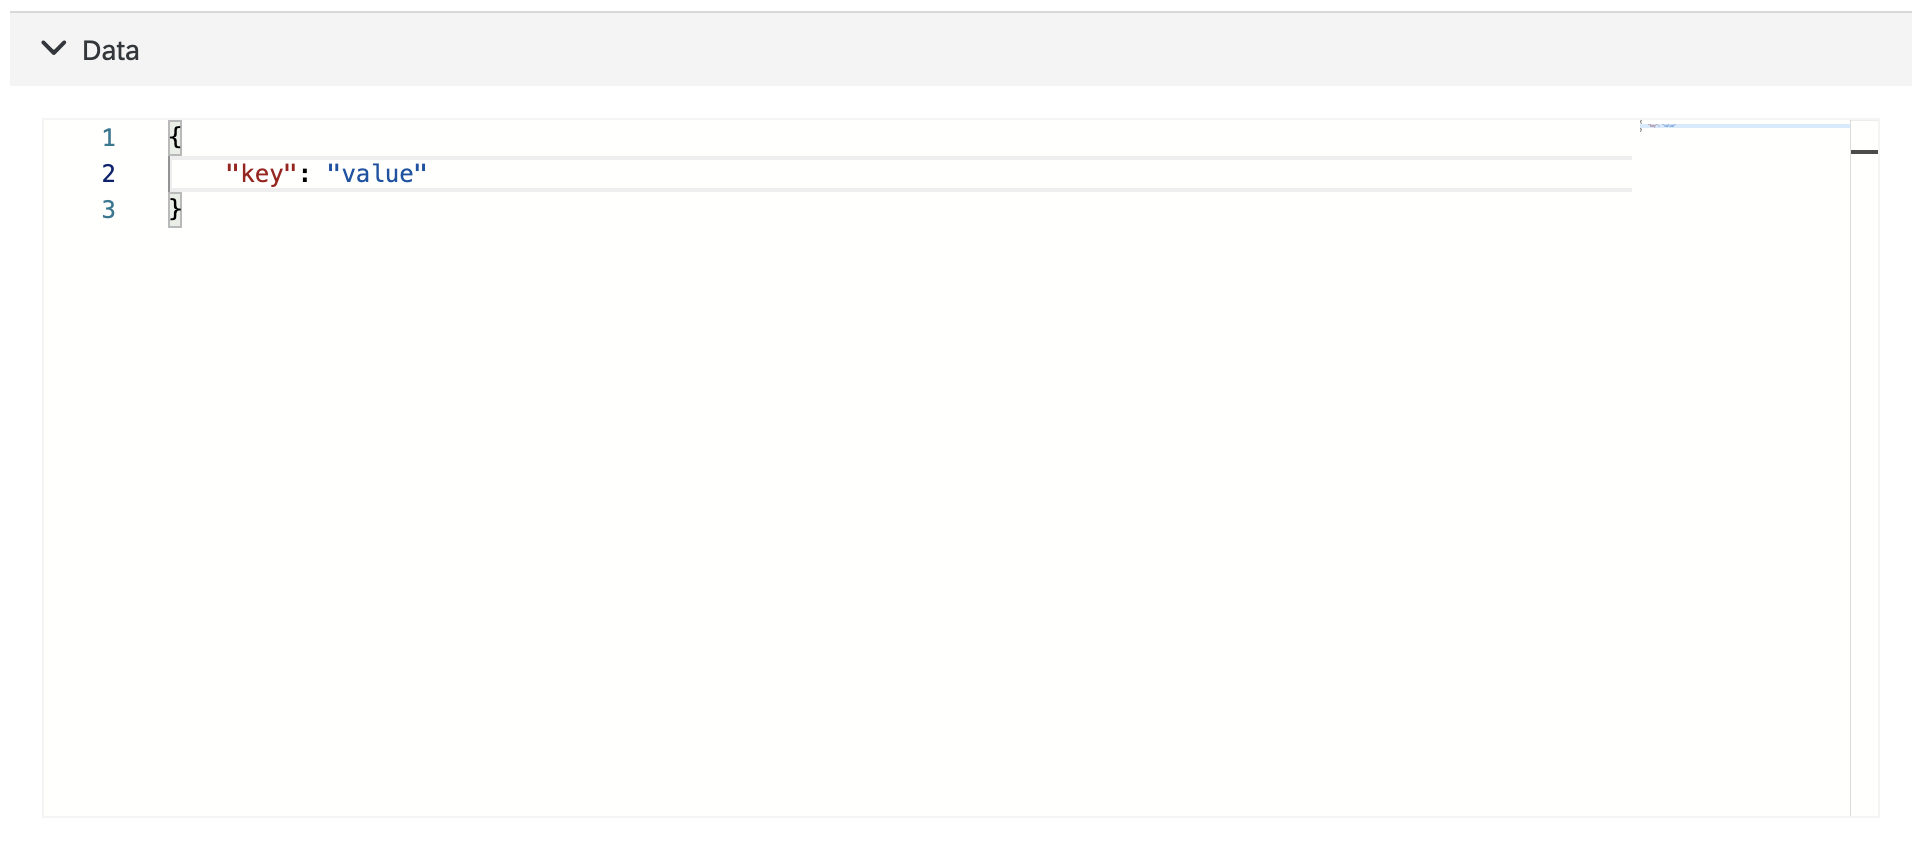
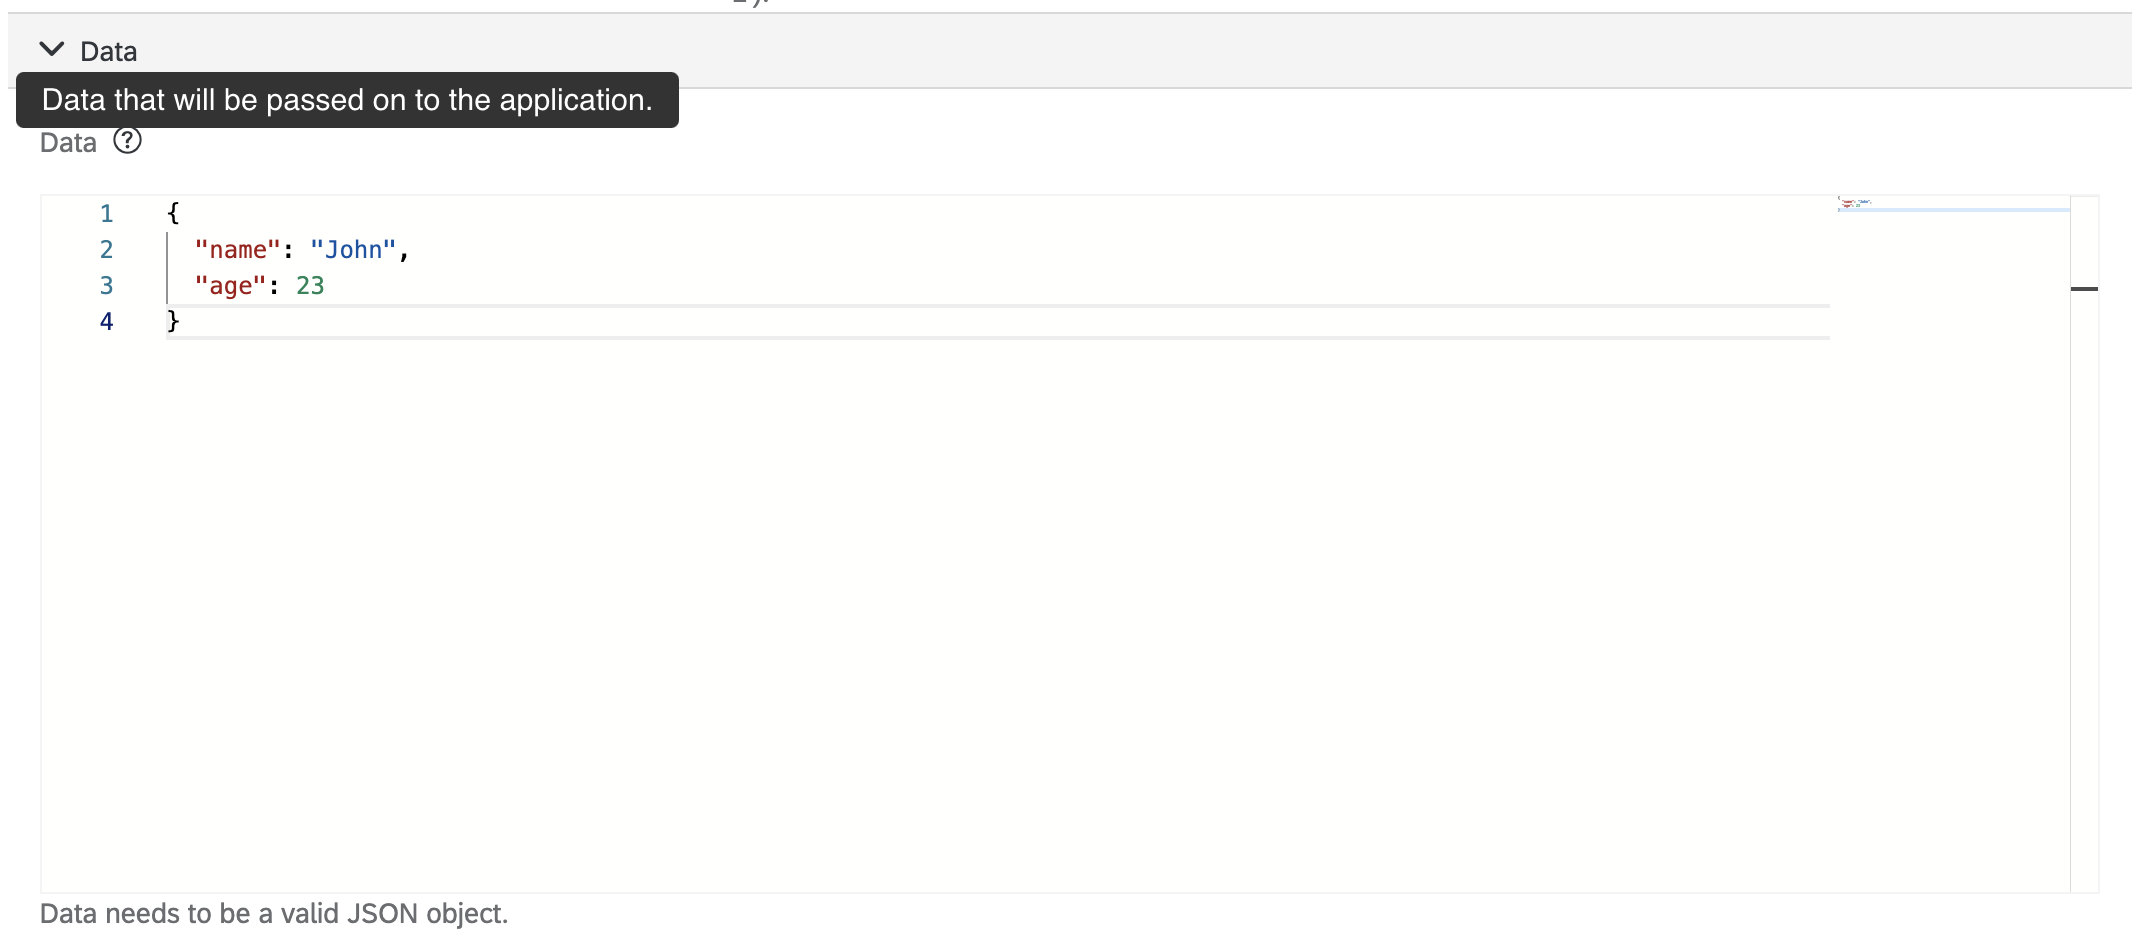
Adjust docs

diff --git a/docs/extensibility/form-widgets.md b/docs/extensibility/form-widgets.md
@@ -27,9 +27,9 @@ Text widgets render a field as a text field. They are used by default for all st
 
 - **enum[]** - an array of options to generate an input field with a dropdown.
 - **placeholder** - specifies a short hint about the input field value.
-- **required** - a boolean which specifies if a field is required. The default value is taken from CustomResourceDefintion (CRD); if it doesn't exist in the CRD, then it defaults to `false`.
+- **required** - a boolean which specifies if a field is required. The default value is taken from the CustomResourceDefintion (CRD); if it doesn't exist in the CRD, then it defaults to `false`.
 - **inputInfo** - a string that can be shown below the input field to guide the User how to fill in the input.
-- **description** - a string that will be displayed in a tooltip when hovering over a question mark icon, next to the input's label.
+- **description** - a string that will be displayed in a tooltip when hovering over a question mark icon, next to the input's label. The default value is taken from the CustomResourceDefintion (CRD).
 
 #### Example
 
@@ -76,7 +76,7 @@ Name widgets render a name input field. They contain an automatic name generator
 - **extraPaths** - an array of extra paths to fill in with the contents of the field. Each path can either be a period-separated string or an array of strings.
 - **placeholder** - specifies a short hint about the input field value.
 - **inputInfo** - a string that can be shown below the input field to guide the User how to fill in the input. It defaults to `Name must consist of lowercase alphanumeric characters, can contain '-' and '.' (e.g.: 'my.name-1').`. To disable any suggestion, set this value to `null`.
-- **description** - a string that will be displayed in a tooltip when hovering over a question mark icon, next to the input's label.
+- **description** - a string that will be displayed in a tooltip when hovering over a question mark icon, next to the input's label. The default value is taken from the CustomResourceDefintion (CRD).
 
 #### Example
 
@@ -93,12 +93,19 @@ Name widgets render a name input field. They contain an automatic name generator
 
 CodeEditor widgets render a versatile code editor that can be used to edit any variable. The editor's default language is JSON.
 
+#### Widget-specific parameters
+
+- **inputInfo** - a string that can be shown below the input field to guide the User how to fill in the input.
+- **description** - a string that will be displayed in a tooltip when hovering over a question mark icon, next to the input's label. The default value is taken from the CustomResourceDefintion (CRD).
+
 #### Example
 
 ```json
 {
   "path": "spec.data",
-  "widget": "CodeEditor"
+  "widget": "CodeEditor",
+  "inputInfo": "Data needs to be a valid JSON object.",
+  "description": "Data that will be passed on to the application."
 }
 ```
 
@@ -159,7 +166,7 @@ KeyValuePair widgets render an `object` value as a list of dual text fields. One
 
 - **required** - a boolean which specifies if a field is required. The default value is taken from CRD; if it doesn't exist in the CRD, then it defaults to `false`.
 - **inputInfo** - a string that can be shown below the last input field to guide the User how to fill in the input.
-- **description** - a string that will be displayed in a tooltip when hovering over a question mark icon, next to the input's label.
+- **description** - a string that will be displayed in a tooltip when hovering over a question mark icon, next to the input's label. The default value is taken from the CustomResourceDefintion (CRD).
 - **keyEnum[]** - an array of options to generate a key input field with a dropdown.
 - **value**:
   - **type** - a string that specifies the type of the value input. The options are `object`, `number`, `text`. Defaults to `text`.
@@ -286,7 +293,7 @@ This type of field is only suitable for simple data types and can contain more c
 - **placeholder** - specifies a short hint about the input field value.
 - **required** - a boolean which specifies if a field is required. The default value is taken from CRD; if it doesn't exist in the CRD, then it defaults to `false`.
 - **inputInfo** - a string that can be shown below the last input field to guide the User how to fill in the input.
-- **description** - a string that will be displayed in a tooltip when hovering over a question mark icon, next to the input's label.
+- **description** - a string that will be displayed in a tooltip when hovering over a question mark icon, next to the input's label. The default value is taken from the CustomResourceDefintion (CRD).
 
 #### Example
 
